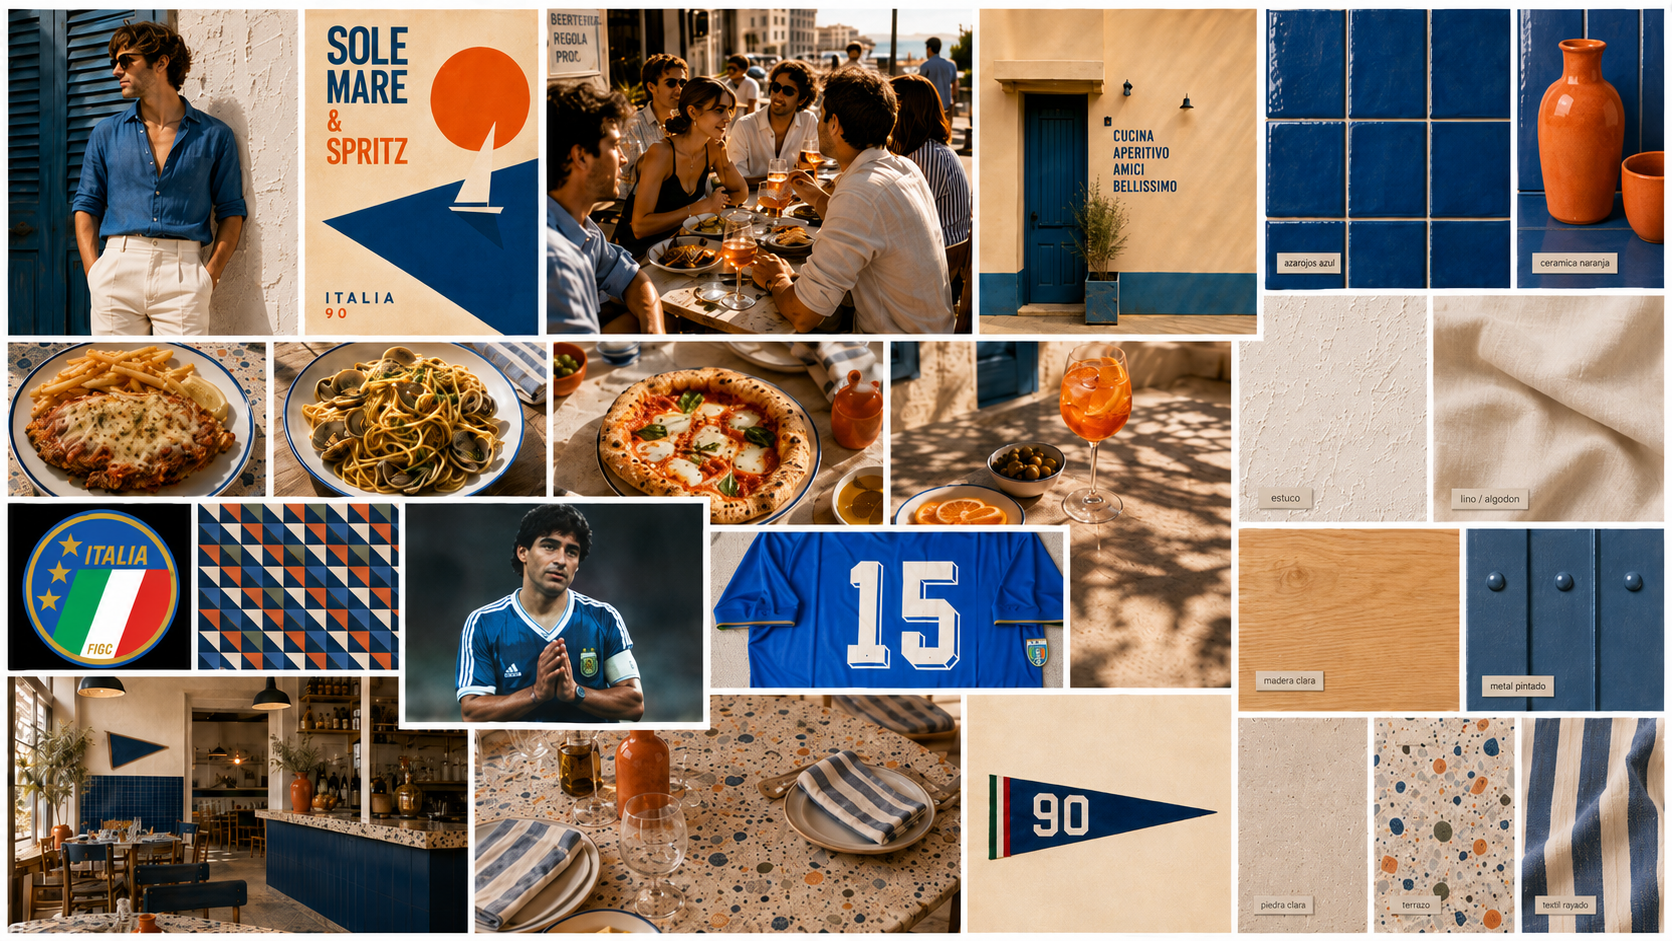
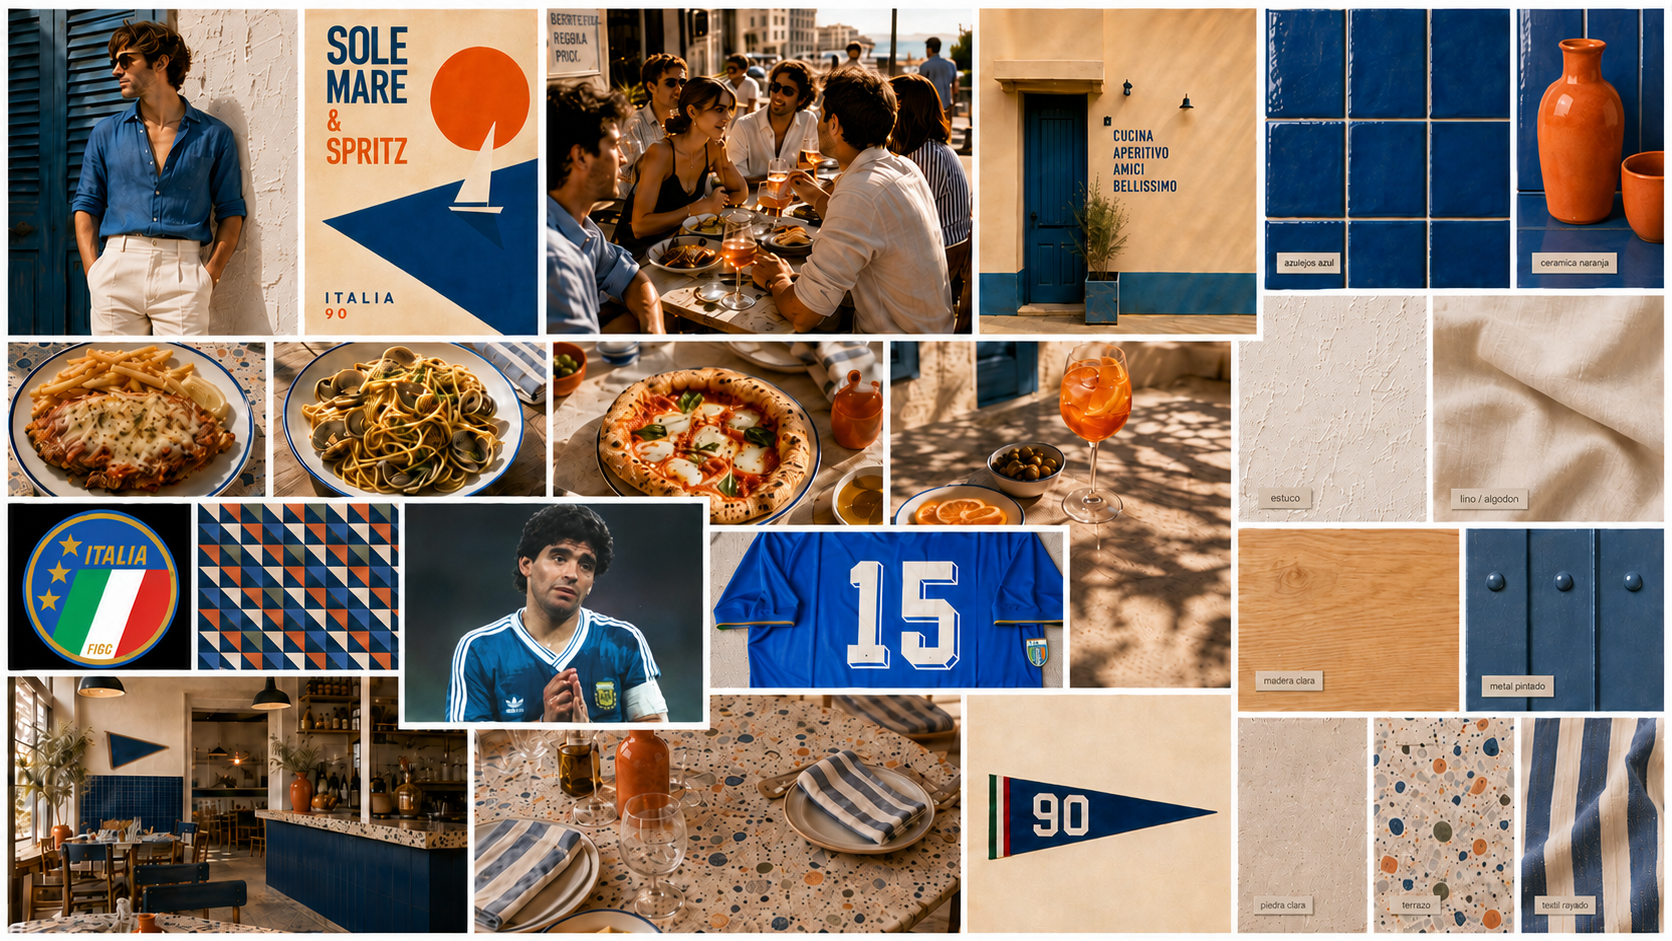
Actualizar index, bodegon_calido, moodboard camino 1, afiche y bodegon_atlantico

diff --git a/index.html b/index.html
@@ -167,9 +167,82 @@
   .bajada   { animation: fadeUp 0.7s 0.12s ease both; }
   .divisor  { animation: fadeUp 0.7s 0.22s ease both; }
   .btns     { animation: fadeUp 0.7s 0.32s ease both; }
+
+  /* Password gate */
+  #gate {
+    position: fixed; inset: 0;
+    background: #080808;
+    z-index: 100;
+    display: flex; align-items: center; justify-content: center;
+    flex-direction: column;
+    gap: 0;
+  }
+  #gate.hidden {
+    opacity: 0;
+    pointer-events: none;
+    transition: opacity 0.6s ease;
+  }
+  .gate-logo {
+    font-size: clamp(1.8rem, 4vw, 3rem);
+    font-weight: 800;
+    letter-spacing: 0.14em;
+    text-transform: uppercase;
+    color: #fff;
+    margin-bottom: 2.5rem;
+    animation: fadeUp 0.6s ease both;
+  }
+  .gate-form {
+    display: flex;
+    flex-direction: column;
+    align-items: center;
+    gap: 1rem;
+    animation: fadeUp 0.6s 0.15s ease both;
+  }
+  .gate-input {
+    background: transparent;
+    border: none;
+    border-bottom: 1px solid rgba(237,216,189,0.3);
+    color: #fff;
+    font-family: 'Montserrat', sans-serif;
+    font-size: 0.9rem;
+    letter-spacing: 0.2em;
+    text-align: center;
+    padding: 0.6rem 1rem;
+    width: 220px;
+    outline: none;
+    transition: border-color 0.3s;
+  }
+  .gate-input::placeholder { color: rgba(237,216,189,0.25); letter-spacing: 0.25em; font-size: 0.72rem; }
+  .gate-input:focus { border-bottom-color: rgba(237,216,189,0.7); }
+  .gate-error {
+    font-size: 0.6rem;
+    letter-spacing: 0.28em;
+    text-transform: uppercase;
+    color: #B65A36;
+    opacity: 0;
+    transition: opacity 0.3s;
+    height: 1em;
+  }
+  .gate-error.visible { opacity: 1; }
+  .gate-hint {
+    font-size: 0.58rem;
+    letter-spacing: 0.25em;
+    text-transform: uppercase;
+    color: rgba(237,216,189,0.18);
+    margin-top: 2rem;
+    animation: fadeUp 0.6s 0.3s ease both;
+  }
 </style>
 </head>
 <body>
+
+<div id="gate">
+  <div class="gate-form">
+    <input id="gate-input" class="gate-input" type="password" placeholder="Contraseña" autocomplete="off" autofocus>
+    <p id="gate-error" class="gate-error">Contraseña incorrecta</p>
+  </div>
+  <p class="gate-hint">Acceso restringido</p>
+</div>
 
 <div class="wrap">
   <div class="deco-line"></div>
@@ -192,5 +265,31 @@
 
 <p class="foot">Propuesta de branding · 2025</p>
 
+<script>
+  const gate  = document.getElementById('gate');
+  const input = document.getElementById('gate-input');
+  const error = document.getElementById('gate-error');
+
+  function unlock() {
+    gate.classList.add('hidden');
+    setTimeout(() => gate.remove(), 650);
+  }
+
+  if (sessionStorage.getItem('italica90_auth') === '1') {
+    unlock();
+  }
+
+  input.addEventListener('keydown', e => {
+    if (e.key !== 'Enter') return;
+    if (input.value === 'Italica90') {
+      sessionStorage.setItem('italica90_auth', '1');
+      unlock();
+    } else {
+      error.classList.add('visible');
+      input.value = '';
+      setTimeout(() => error.classList.remove('visible'), 2000);
+    }
+  });
+</script>
 </body>
 </html>

diff --git a/Camino 2/bodegon_calido.html b/Camino 2/bodegon_calido.html
@@ -160,7 +160,7 @@
   .mg {
     display: grid;
     grid-template-columns: repeat(12, 1fr);
-    grid-template-rows: 270px 240px 215px 155px;
+    grid-template-rows: 216px 192px 266px 291px;
     gap: 3px;
   }
   .mg-cell {
@@ -184,41 +184,39 @@
     white-space: nowrap; font-weight: 600; z-index: 2; text-transform: lowercase;
   }
 
-  /* Posiciones — aspect ratios respetados */
+  /* Posiciones — estructura fiel a referencia editorial */
 
-  /* Fila 1 (270px): portrait 4:5 → celda 2col×270px = 0.80 ✓  |  landscape 4:3 → 3col×270px = 1.20 ✓ */
-  .mg-c1      { grid-column: 1/3;  grid-row: 1/2; }
-  .mg-amigos  { grid-column: 3/5;  grid-row: 1/2; }
-  .mg-comida  { grid-column: 5/8;  grid-row: 1/2; }
-  .mg-c5      { grid-column: 8/10; grid-row: 1/2; }
-
-  /* Fila 2 (240px): portrait 4:5 → 2col×240px = 0.90 ✓  |  landscape 4:3 → 3col×240px = 1.35 ✓✓ */
-  .mg-modelos { grid-column: 1/3;  grid-row: 2/3; }
-  .mg-vemouth { grid-column: 3/5;  grid-row: 2/3; }
-  .mg-vino    { grid-column: 5/8;  grid-row: 2/3; }
-  .mg-c4      { grid-column: 8/10; grid-row: 2/3; }
-
-  /* Fila 3 (215px): square 1:1 → 3col×215px = 1.51 (crop mínimo)  |  portrait → mismo */
-  .mg-puerta  { grid-column: 1/4;  grid-row: 3/4; }
-  .mg-pintura { grid-column: 4/7;  grid-row: 3/4; }
-  .mg-c2      { grid-column: 7/10; grid-row: 3/4; }
-
-  /* Fila 4 (155px): crops editoriales anchos — detalles */
-  .mg-c6      { grid-column: 1/4;  grid-row: 4/5; }
-  .mg-c7      { grid-column: 4/7;  grid-row: 4/5; }
-  .mg-c8      { grid-column: 7/10; grid-row: 4/5; }
-
-  /* Materiales — franja derecha idéntica a Camino 1 */
+  /* Fila 1 (270px) */
+  .mg-modelos  { grid-column: 1/3;  grid-row: 1/3; }   /* portrait tall, span 2 filas */
+  .mg-pintura  { grid-column: 3/5;  grid-row: 1/2; }   /* mural diego portrait */
+  .mg-puerta   { grid-column: 5/8;  grid-row: 1/2; }   /* interior landscape ancho */
+  .mg-c5       { grid-column: 8/10; grid-row: 1/2; }
   .mg-m-ladrillo  { grid-column: 10/11; grid-row: 1/2; }
   .mg-m-hierro    { grid-column: 11/12; grid-row: 1/2; }
   .mg-m-azulejo   { grid-column: 12/13; grid-row: 1/2; }
+
+  /* Fila 2 (240px) — modelos col 1/3 continúa */
+  .mg-comida   { grid-column: 3/4;  grid-row: 2/3; }   /* comida 1 col */
+  .mg-vemouth  { grid-column: 4/6;  grid-row: 2/3; }   /* aperitivo 2 cols */
+  .mg-c1       { grid-column: 6/8;  grid-row: 2/3; }   /* callejón 2 cols */
+  .mg-c4       { grid-column: 8/10; grid-row: 2/3; }   /* cartel/sign 2 cols */
   .mg-m-ceramicas { grid-column: 10/11; grid-row: 2/3; }
   .mg-m-madera    { grid-column: 11/12; grid-row: 2/3; }
   .mg-m-terracota { grid-column: 12/13; grid-row: 2/3; }
+
+  /* Fila 3 (215px) */
+  .mg-vino     { grid-column: 1/3;  grid-row: 3/4; }   /* vino 2 cols */
+  .mg-c7       { grid-column: 3/5;  grid-row: 3/4; }   /* cartel/poster 2 cols */
+  .mg-c2       { grid-column: 4/5;  grid-row: 4/5; }   /* escudo, solo fila 4 */
+  .mg-amigos   { grid-column: 5/8;  grid-row: 3/5; }   /* vertical tall, span filas 3-4 */
+  .mg-c6       { grid-column: 8/10; grid-row: 3/5; }   /* interior tall, span filas 3-4 */
   .mg-m-revoque   { grid-column: 10/11; grid-row: 3/4; }
   .mg-m-lino      { grid-column: 11/12; grid-row: 3/4; }
   .mg-m-vambar    { grid-column: 12/13; grid-row: 3/4; }
-  .mg-m-vidrio    { grid-column: 10/13; grid-row: 4/5; }
+
+  /* Fila 4 — c2, amigos y c6 continúan */
+  .mg-c8       { grid-column: 1/4;  grid-row: 4/5; }   /* detalle 3 cols */
+  .mg-m-vidrio { grid-column: 10/13; grid-row: 4/5; }  /* vidrio wide 3 cols */
 
   /* --- Paleta --- */
   .palette-section { padding: 6rem 3rem; background: var(--crema); }
@@ -439,7 +437,7 @@
       <div class="cell-ov"><span class="cell-lbl">Mesa compartida</span></div>
     </div>
     <div class="mg-cell mg-modelos" onclick="openLb(this)">
-      <img src="Img/Camino%202%20-%20Modelos.png" alt="Estilo">
+      <img src="Img/Camino%202_8.png" alt="Referencia 8">
       <div class="cell-ov"><span class="cell-lbl">Estilo</span></div>
     </div>
     <div class="mg-cell mat mg-m-ladrillo" onclick="openLb(this)">
@@ -459,7 +457,7 @@
       <div class="cell-ov"><span class="cell-lbl">Aperitivo · Vermut</span></div>
     </div>
     <div class="mg-cell mg-c4" onclick="openLb(this)">
-      <img src="Img/Camino%202_4.png" alt="Referencia 4">
+      <img src="Img/Camino%202_6.png" alt="Referencia 6">
       <div class="cell-ov"><span class="cell-lbl">Referencia</span></div>
     </div>
     <div class="mg-cell mat mg-m-ceramicas" onclick="openLb(this)">
@@ -499,19 +497,19 @@
       <div class="mat-lbl">vidrio ámbar</div>
     </div>
     <div class="mg-cell mg-vino" onclick="openLb(this)">
-      <img src="Img/Camino%202%20-%20Vino.png" alt="Vino">
+      <img src="Img/Camino%202_7.png" alt="Referencia 7">
       <div class="cell-ov"><span class="cell-lbl">Vino · Mesa</span></div>
     </div>
     <div class="mg-cell mg-c6" onclick="openLb(this)">
-      <img src="Img/Camino%202_6.png" alt="Referencia 6">
+      <img src="Img/Camino%202%20-%20Modelos.png" alt="Modelos">
       <div class="cell-ov"><span class="cell-lbl">Referencia</span></div>
     </div>
     <div class="mg-cell mg-c7" onclick="openLb(this)">
-      <img src="Img/Camino%202_7.png" alt="Referencia 7">
+      <img src="Img/Camino%202%20-%20Vino.png" alt="Vino">
       <div class="cell-ov"><span class="cell-lbl">Referencia</span></div>
     </div>
     <div class="mg-cell mg-c8" onclick="openLb(this)">
-      <img src="Img/Camino%202_8.png" alt="Referencia 8">
+      <img src="Img/Camino%202_4.png" alt="Referencia 4">
       <div class="cell-ov"><span class="cell-lbl">Referencia</span></div>
     </div>
     <div class="mg-cell mat mg-m-vidrio" onclick="openLb(this)">